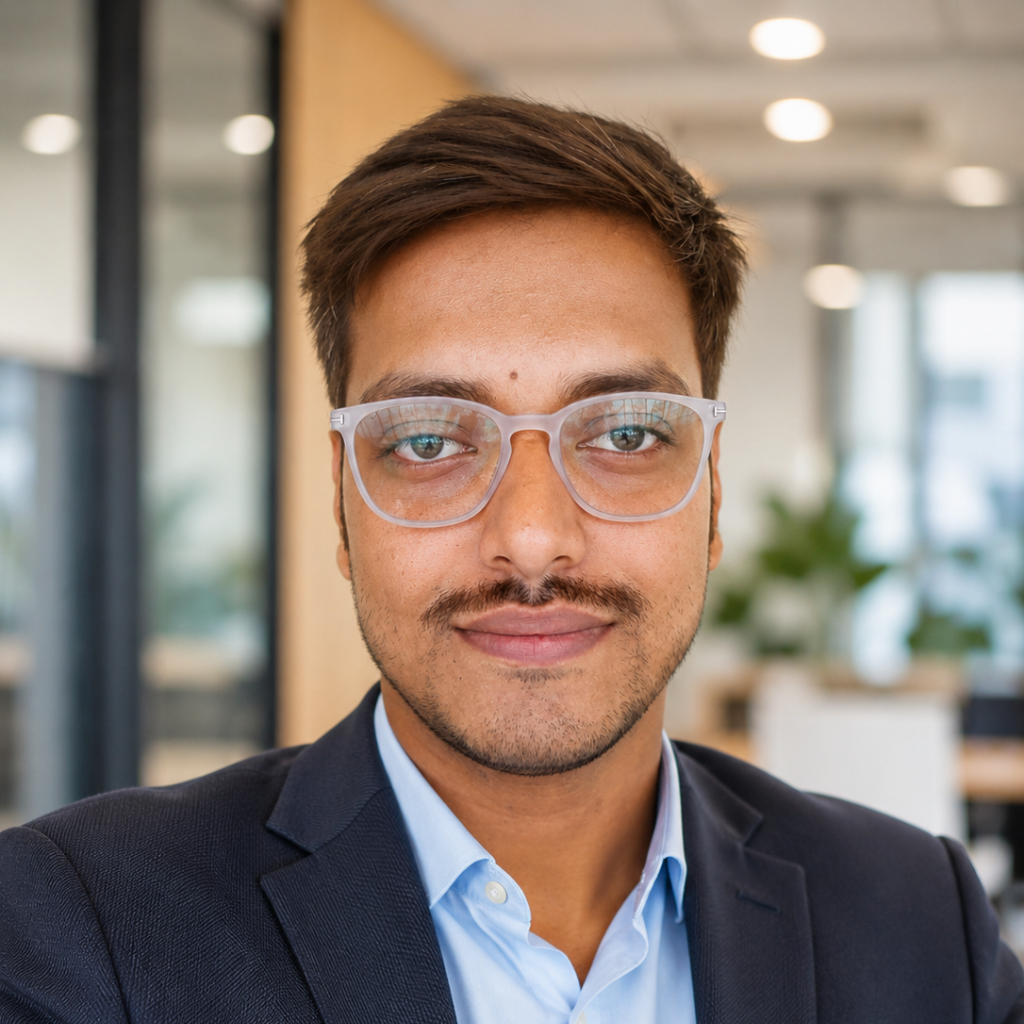
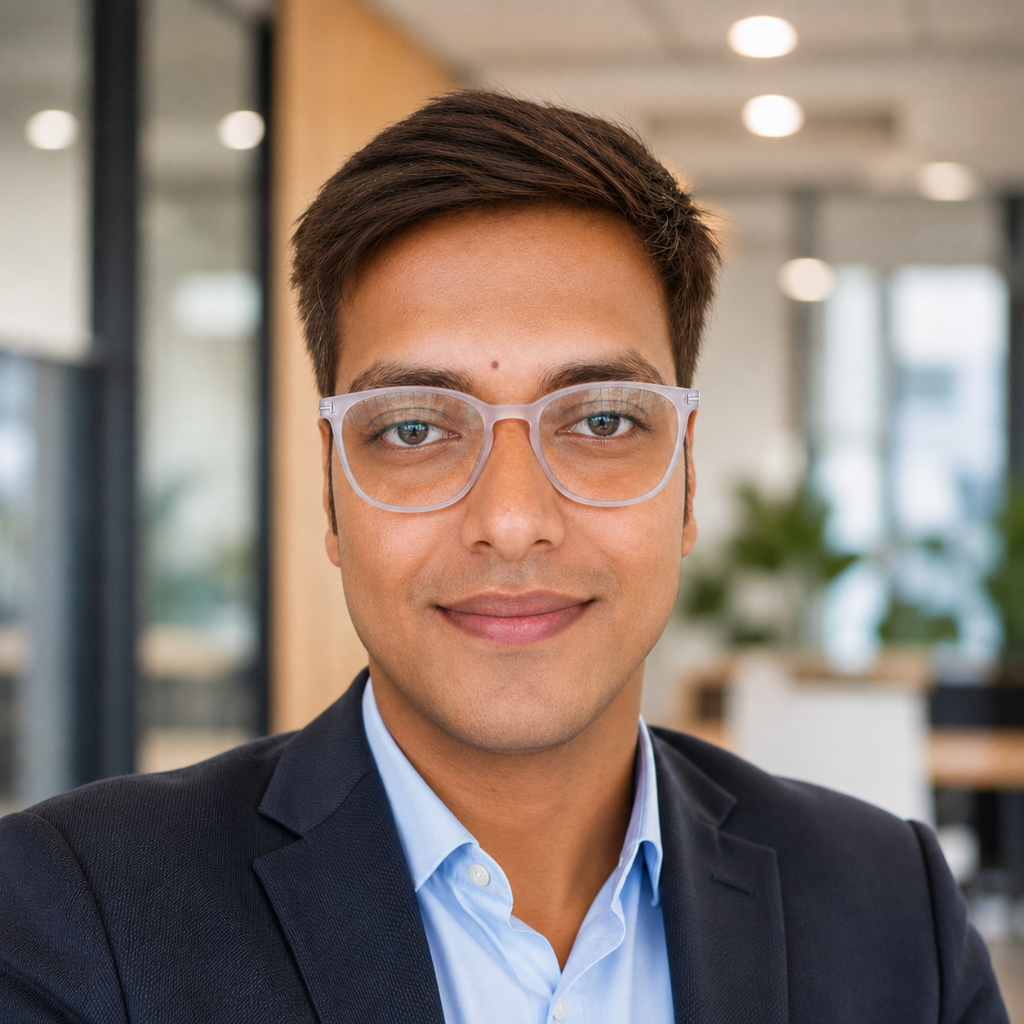
Updated portfolio homepage

diff --git a/index.html b/index.html
@@ -27,6 +27,12 @@
         <a href="#work" class="navbar__link">Work</a>
         <a href="#services" class="navbar__link">Services</a>
         <a href="#experience" class="navbar__link">Experience</a>
+        <a href="assets/resume/SOURADEEP-DE-RESUME.pdf" download class="navbar__link">
+          <svg width="16" height="16" viewBox="0 0 24 24" fill="none" stroke="currentColor" stroke-width="2.5" stroke-linecap="round" stroke-linejoin="round" style="vertical-align: -2px;">
+            <path d="M21 15v4a2 2 0 0 1-2 2H5a2 2 0 0 1-2-2v-4"/><polyline points="7 10 12 15 17 10"/><line x1="12" y1="15" x2="12" y2="3"/>
+          </svg>
+          Resume
+        </a>
         <a href="#contact" class="btn btn--teal" id="nav-book-call">Let's Connect</a>
       </div>
       <button class="navbar__hamburger" id="hamburger" aria-label="Toggle navigation menu" aria-expanded="false">
@@ -42,6 +48,7 @@
     <a href="#work" class="mobile-nav__link">Work</a>
     <a href="#services" class="mobile-nav__link">Services</a>
     <a href="#experience" class="mobile-nav__link">Experience</a>
+    <a href="assets/resume/SOURADEEP-DE-RESUME.pdf" download class="mobile-nav__link"><svg width="16" height="16" viewBox="0 0 24 24" fill="none" stroke="currentColor" stroke-width="2.5" stroke-linecap="round" stroke-linejoin="round"><path d="M21 15v4a2 2 0 0 1-2 2H5a2 2 0 0 1-2-2v-4"/><polyline points="7 10 12 15 17 10"/><line x1="12" y1="15" x2="12" y2="3"/></svg>Resume</a>
     <a href="#contact" class="btn btn--teal">Let's Connect</a>
   </div>
 
@@ -189,80 +196,80 @@
         </div>
         <div class="portfolio__featured reveal" data-category="carousel">
           <div class="portfolio__featured-img">
-            <img src="assets/images/projects/design-14-06-2026-12-13.png" alt="Social media graphics project — Instagram carousel design for a fitness brand" loading="lazy" width="1200" height="800">
+            <img src="assets/images/projects/design-14-06-2026-12-13.png" alt="Social media graphics project — LinkedIn carousel design for a brand" loading="lazy" width="1200" height="800">
           </div>
           <div class="portfolio__featured-info">
-            <span class="portfolio__featured-name">Fitness Brand Campaign</span>
-            <span class="portfolio__featured-year">2025</span>
+            <span class="portfolio__featured-name">Sales Mistakes Carousel</span>
+            <span class="portfolio__featured-year">2026</span>
           </div>
           <div class="portfolio__featured-tags">
             <span class="tag tag--teal">Social Media</span>
-            <span class="tag tag--gray">Instagram</span>
+            <span class="tag tag--gray">LinkedIn</span>
           </div>
         </div>
         <div class="portfolio__featured reveal" data-category="carousel">
           <div class="portfolio__featured-img">
-            <img src="assets/images/projects/design-14-06-2026-12-23.png" alt="Social media graphics project — Instagram carousel design for a fitness brand" loading="lazy" width="1200" height="800">
+            <img src="assets/images/projects/design-14-06-2026-12-23.png" alt="Good Habits Carousel" loading="lazy" width="1200" height="800">
           </div>
           <div class="portfolio__featured-info">
-            <span class="portfolio__featured-name">Fitness Brand Campaign</span>
-            <span class="portfolio__featured-year">2025</span>
+            <span class="portfolio__featured-name">Good Habits Carousel</span>
+            <span class="portfolio__featured-year">2026</span>
           </div>
           <div class="portfolio__featured-tags">
             <span class="tag tag--teal">Social Media</span>
-            <span class="tag tag--gray">Instagram</span>
+            <span class="tag tag--gray">LinkedIn</span>
           </div>
         </div>
         <div class="portfolio__grid">
           <article class="project-card reveal" data-category="social-media">
-            <div class="project-card__img"><img src="assets/images/projects/design-14-06-2026-12-33.png" alt="Brand identity kit design" loading="lazy" width="1200" height="800"></div>
-            <div class="project-card__info"><span class="project-card__name">Brand Identity Kit</span><span class="project-card__year">2025</span></div>
-            <div class="project-card__tags"><span class="tag tag--teal">Branding</span><span class="tag tag--gray">Brand Kit</span></div>
+            <div class="project-card__img"><img src="assets/images/projects/design-14-06-2026-12-33.png" alt="Product Promotion Design" loading="lazy" width="1200" height="800"></div>
+            <div class="project-card__info"><span class="project-card__name">Product Promotion Design</span><span class="project-card__year">2026</span></div>
+            <div class="project-card__tags"><span class="tag tag--teal">Instagram</span><span class="tag tag--gray">Promomtion</span></div>
           </article>
           <article class="project-card reveal" data-category="social-media">
-            <div class="project-card__img"><img src="assets/images/projects/design-14-06-2026-13-09.png" alt="YouTube thumbnail designs" loading="lazy" width="1200" height="800"></div>
-            <div class="project-card__info"><span class="project-card__name">YouTube Thumbnails</span><span class="project-card__year">2024</span></div>
-            <div class="project-card__tags"><span class="tag tag--teal">Social Media</span><span class="tag tag--gray">Thumbnails</span></div>
+            <div class="project-card__img"><img src="assets/images/projects/design-14-06-2026-13-09.png" alt="Women's Fashion Ad" loading="lazy" width="1200" height="800"></div>
+            <div class="project-card__info"><span class="project-card__name">Women's Fashion Ad</span><span class="project-card__year">2026</span></div>
+            <div class="project-card__tags"><span class="tag tag--teal">Instagram</span><span class="tag tag--gray">Promotion</span></div>
           </article>
           <article class="project-card reveal" data-category="social-media">
-            <div class="project-card__img"><img src="assets/images/projects/design-14-06-2026-12-50.png" alt="Creative event flyer design" loading="lazy" width="1200" height="800"></div>
-            <div class="project-card__info"><span class="project-card__name">Event Flyer Design</span><span class="project-card__year">2024</span></div>
-            <div class="project-card__tags"><span class="tag tag--teal">Print</span><span class="tag tag--gray">Event Flyer</span></div>
+            <div class="project-card__img"><img src="assets/images/projects/design-14-06-2026-12-50.png" alt="Jewelry Promotional Post" loading="lazy" width="1200" height="800"></div>
+            <div class="project-card__info"><span class="project-card__name">Jewelry Promotional Post</span><span class="project-card__year">2026</span></div>
+            <div class="project-card__tags"><span class="tag tag--teal">Instagram</span><span class="tag tag--gray">Promotion</span></div>
           </article>
           <article class="project-card reveal" data-category="social-media">
-            <div class="project-card__img"><img src="assets/images/projects/design-14-06-2026-13-15.png" alt="Instagram story templates" loading="lazy" width="1200" height="800"></div>
-            <div class="project-card__info"><span class="project-card__name">Story Templates</span><span class="project-card__year">2024</span></div>
+            <div class="project-card__img"><img src="assets/images/projects/design-14-06-2026-13-15.png" alt="Travel Promotional Post" loading="lazy" width="1200" height="800"></div>
+            <div class="project-card__info"><span class="project-card__name">Travel Promotional Post</span><span class="project-card__year">2026</span></div>
             <div class="project-card__tags"><span class="tag tag--teal">Social Media</span><span class="tag tag--gray">Instagram</span></div>
           </article>
           <article class="project-card reveal" data-category="campaign-ad">
-            <div class="project-card__img"><img src="assets/images/projects/design-14-06-2026-15-03.png" alt="Tri-fold brochure design" loading="lazy" width="1200" height="800"></div>
-            <div class="project-card__info"><span class="project-card__name">Real Estate Brochure</span><span class="project-card__year">2023</span></div>
-            <div class="project-card__tags"><span class="tag tag--teal">Print</span><span class="tag tag--gray">Brochure</span></div>
+            <div class="project-card__img"><img src="assets/images/projects/design-14-06-2026-15-03.png" alt="Gym Advertisement Design" loading="lazy" width="1200" height="800"></div>
+            <div class="project-card__info"><span class="project-card__name">Gym Advertisement Design</span><span class="project-card__year">2026</span></div>
+            <div class="project-card__tags"><span class="tag tag--teal">Social Media</span><span class="tag tag--gray">Banners</span></div>
           </article>
           <article class="project-card reveal" data-category="banners">
-            <div class="project-card__img"><img src="assets/images/projects/design-14-06-2026-15-20.png" alt="YouTube thumbnail designs" loading="lazy" width="1200" height="800"></div>
-            <div class="project-card__info"><span class="project-card__name">YouTube Thumbnails</span><span class="project-card__year">2024</span></div>
-            <div class="project-card__tags"><span class="tag tag--teal">Social Media</span><span class="tag tag--gray">Thumbnails</span></div>
+            <div class="project-card__img"><img src="assets/images/projects/design-14-06-2026-15-20.png" alt="Real Estate Banner" loading="lazy" width="1200" height="800"></div>
+            <div class="project-card__info"><span class="project-card__name">Real Estate Banner</span><span class="project-card__year">2026</span></div>
+            <div class="project-card__tags"><span class="tag tag--teal">Social Media</span><span class="tag tag--gray">Banners</span></div>
           </article>
           <article class="project-card reveal" data-category="banners">
-            <div class="project-card__img"><img src="assets/images/projects/design-14-06-2026-15-12.png" alt="Creative event flyer design" loading="lazy" width="1200" height="800"></div>
-            <div class="project-card__info"><span class="project-card__name">Event Flyer Design</span><span class="project-card__year">2024</span></div>
-            <div class="project-card__tags"><span class="tag tag--teal">Print</span><span class="tag tag--gray">Event Flyer</span></div>
+            <div class="project-card__img"><img src="assets/images/projects/design-14-06-2026-15-12.png" alt="Gym Advertisement Banner" loading="lazy" width="1200" height="800"></div>
+            <div class="project-card__info"><span class="project-card__name">Gym Advertisement Banner</span><span class="project-card__year">2026</span></div>
+            <div class="project-card__tags"><span class="tag tag--teal">Social Media</span><span class="tag tag--gray">Banners</span></div>
           </article>
           <article class="project-card reveal" data-category="carousel">
-            <div class="project-card__img"><img src="assets/images/projects/design-14-06-2026-12-34.png" alt="Startup pitch deck presentation design" loading="lazy" width="1200" height="800"></div>
-            <div class="project-card__info"><span class="project-card__name">Startup Pitch Deck</span><span class="project-card__year">2024</span></div>
-            <div class="project-card__tags"><span class="tag tag--teal">Presentations</span><span class="tag tag--gray">Pitch Deck</span></div>
+            <div class="project-card__img"><img src="assets/images/projects/design-14-06-2026-12-34.png" alt="Educational Carousel Design" loading="lazy" width="1200" height="800"></div>
+            <div class="project-card__info"><span class="project-card__name">Educational Carousel Design</span><span class="project-card__year">2026</span></div>
+            <div class="project-card__tags"><span class="tag tag--teal">Social Media</span><span class="tag tag--gray">LinkedIn</span></div>
           </article>
           <article class="project-card reveal" data-category="banners">
-            <div class="project-card__img"><img src="assets/images/projects/design-14-06-2026-15-07.png" alt="Instagram story templates" loading="lazy" width="1200" height="800"></div>
-            <div class="project-card__info"><span class="project-card__name">Story Templates</span><span class="project-card__year">2024</span></div>
-            <div class="project-card__tags"><span class="tag tag--teal">Social Media</span><span class="tag tag--gray">Instagram</span></div>
+            <div class="project-card__img"><img src="assets/images/projects/design-14-06-2026-15-07.png" alt="Clothing Sale Banner" loading="lazy" width="1200" height="800"></div>
+            <div class="project-card__info"><span class="project-card__name">Clothing Sale Banner</span><span class="project-card__year">2026</span></div>
+            <div class="project-card__tags"><span class="tag tag--teal">Social Media</span><span class="tag tag--gray">Banners</span></div>
           </article>
           <article class="project-card reveal" data-category="banners">
-            <div class="project-card__img"><img src="assets/images/projects/design-14-06-2026-15-09.png" alt="Tri-fold brochure design" loading="lazy" width="1200" height="800"></div>
-            <div class="project-card__info"><span class="project-card__name">Real Estate Brochure</span><span class="project-card__year">2023</span></div>
-            <div class="project-card__tags"><span class="tag tag--teal">Print</span><span class="tag tag--gray">Brochure</span></div>
+            <div class="project-card__img"><img src="assets/images/projects/design-14-06-2026-15-09.png" alt="Restaurant Promotional Banner" loading="lazy" width="1200" height="800"></div>
+            <div class="project-card__info"><span class="project-card__name">Restaurant Promotional Banner</span><span class="project-card__year">2026</span></div>
+            <div class="project-card__tags"><span class="tag tag--teal">Social Media</span><span class="tag tag--gray">Promotional</span></div>
           </article>
         </div>
       </div>